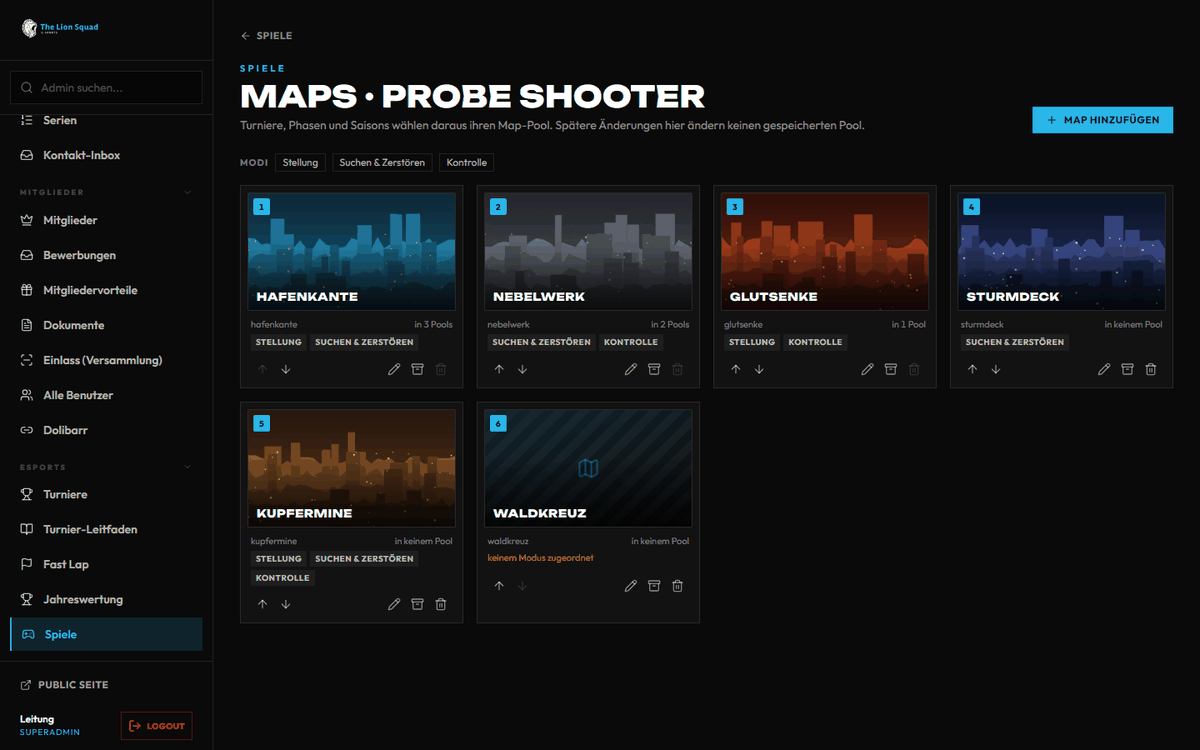
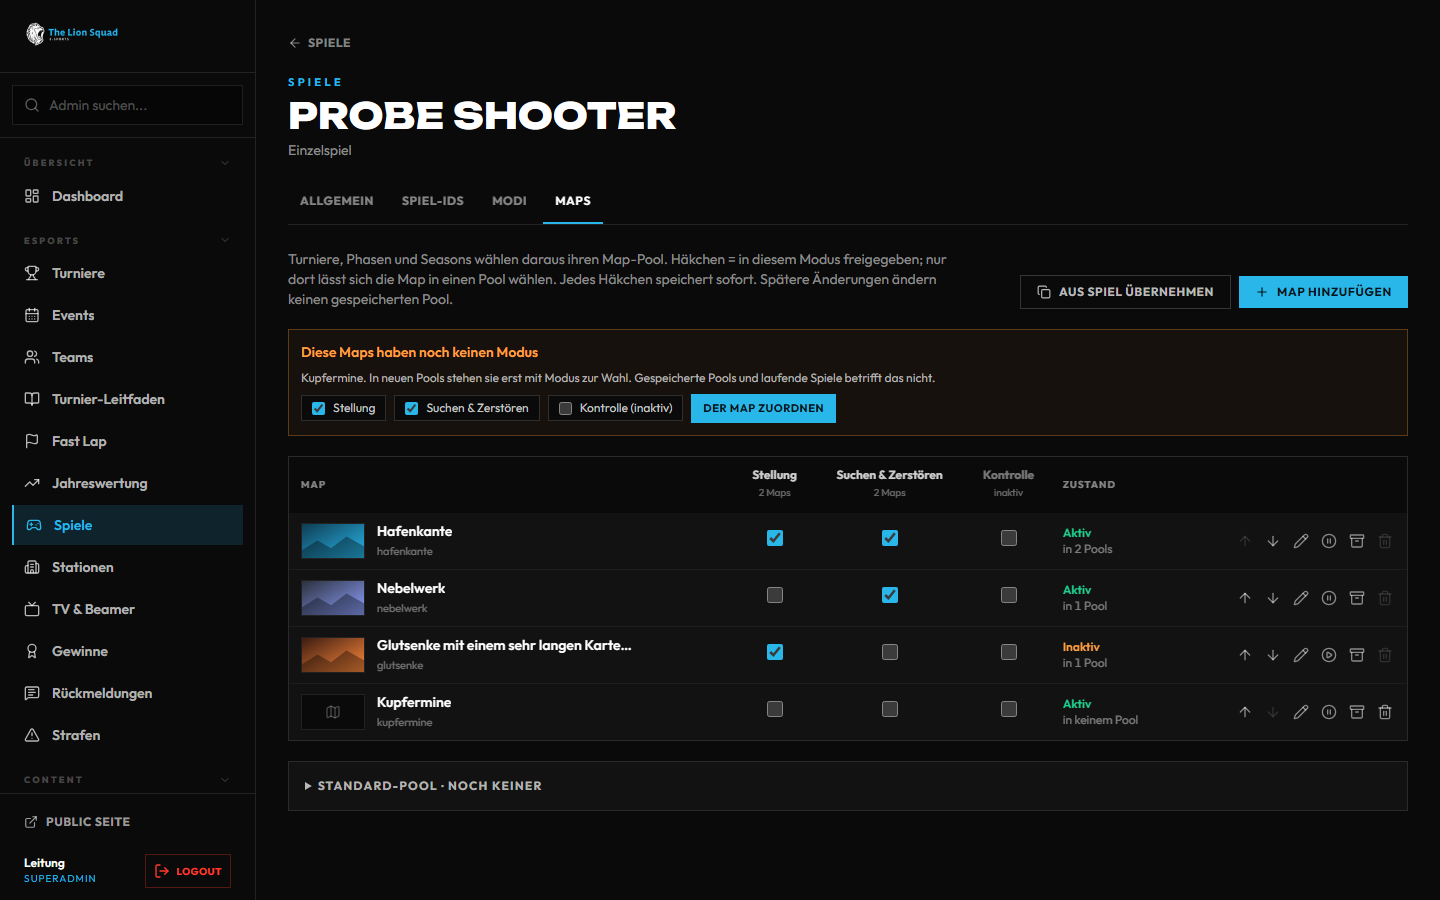
docs: Handbuch zur Spielseite mit neuen Bildern (#2249)
Turniere 3.12 (Spielseite, Reiter, Speichern je Reiter, neues Spiel, Modi als
Zeilen) und 3.14 (Maps als Tabelle Map × Modus), dazu die Wege in Liga,
Discord und Inhalte. Bilder mit erfundenen Daten.

diff --git a/docs/handbuch/turniere.md b/docs/handbuch/turniere.md
@@ -10,7 +10,9 @@ Der Weg eines Turniers aus Sicht der Turnierleitung: anlegen, Anmeldung, Check-i
 - **Admin → eSports → Turniere → Turnier öffnen** (`/admin/tournaments/<Turnier>`) – Reiter **Teilnehmer**,
   **Turnierbaum**, **Matchplan** (Zeitleiste je Station, siehe 3.8), **Spiele**, **Gruppen** (nur beim Format Gruppenphase), **Maps** (nur mit Spiel, siehe 3.14), **Team**, **Rückmeldungen** (erst nach
   dem Ende), **Bearbeiten**
-- **Admin → eSports → Spiele → Maps** (`/admin/games/<Spiel>/maps`) – Map-Bibliothek eines Spiels mit Bildern und Modi
+- **Admin → eSports → Spiele → Zahnrad** (`/admin/games/<Spiel>`) – die Spielseite mit den Reitern **Allgemein**,
+  **Spiel-IDs**, **Modi** (`#modi`) und **Maps** (`#maps`, Map-Bibliothek mit Bildern; die alte Adresse
+  `/admin/games/<Spiel>/maps` leitet dorthin weiter), siehe 3.12 und 3.14
 - **Admin → eSports → Liga** (`/admin/leagues`) – Liga, Season, Liga N und Staffeln (3.15); den ganzen Weg bis zum
   Saisonende erklärt [Liga leiten](liga.md)
 - **Admin → eSports → Turnier-Leitfaden** (`/admin/tournament-guide`) – welches Format wofür, mit „Voreinstellung übernehmen“
@@ -54,7 +56,7 @@ Turniere. **Ohne 2FA** erscheint stattdessen der Hinweis **2FA einrichten**, sie
 | **Ergebnisse** | Spieler melden, oder die Turnierleitung trägt im **Ergebnis-Fenster** ein, danach 10 Sekunden **Rückgängig** | Matchplan, Stationen, Turnierleitung am Handy |
 | **Dispute** | Streitfall entscheiden mit einem Tipp | Turnierleitung am Handy |
 | **Stationen** | Spiele Geräten zuweisen, Aufruf auf dem TV | Admin → eSports → Stationen |
-| **Maps** | Map-Bibliothek je Spiel mit Bild und Modi; je Turnier und Phase ein eigener Map-Pool | Spiele → Maps, Reiter Maps |
+| **Maps** | Map-Bibliothek je Spiel mit Bild und Modi; je Turnier und Phase ein eigener Map-Pool | Spielseite → Maps, im Turnier Reiter Maps |
 | **TV** | Turnierbaum, Aufrufe, Stationen auf Fernseher und Beamer | [TV und Beamer](tv.md) |
 | **Abschluss** | Beendet, Ergebnisse veröffentlicht, Punkte, Erfolge, Gewinne | Statusauswahl im Turnier |
 
@@ -706,20 +708,42 @@ weiter, auch die Liste für die App. **Archivierte zeigen** blendet es wieder ei
 **Löschen** geht nur, wenn nichts mehr daran hängt; sonst nennt der Dialog die Zählung (etwa „2 Turniere, 12 Maps“) und
 bietet das Archiv an.
 
-**Spiel-Daten pflegen:** **Admin → eSports → Spiele → Spiel bearbeiten**, Abschnitt **Für Turniere**. Alles ist
-freiwillig:
+**Die Spielseite:** **Admin → eSports → Spiele**, in der Zeile des Spiels das **Zahnrad** (oder der Name) öffnet
+`/admin/games/<Spiel>`. Alles zu einem Spiel steht dort in vier Reitern; jeder Reiter lässt sich auch direkt per Adresse
+öffnen (`#allgemein`, `#ids`, `#modi`, `#maps`):
+
+| Reiter | Was dort steht |
+| --- | --- |
+| **Allgemein** | Name, Kurzname, **Art** (Einzelspiel, Hauptspiel / Serie, Spielversion), **Adresse** (eine geänderte leitet alte Links weiter), bei einer Spielversion das **Hauptspiel**, Logo und Cover, **Discord-Server** und **Discord-Rolle** |
+| **Spiel-IDs** | Welche Spieler-ID die Anmeldung fragt: je Feld **Bezeichnung**, **Schlüssel**, **Hinweis für Spieler**, **Format**, **Beispiel**, **Auswahl** und die Haken **Pflichtfeld** und **Je Liga-Season nur einmal**. Bei einer Spielversion dazu **ID-Quelle** und „IDs vom Hauptspiel verwenden“ |
+| **Modi** | Die Modi mit Dauer und Ergebnisregel (unten), darunter die **Vorgaben für Turniere** |
+| **Maps** | Die Map-Bibliothek als Tabelle Map × Modus (siehe 3.14) |
+
+Jeder Reiter mit Formular hat unten seinen eigenen Knopf (**Allgemein speichern**, **Spiel-IDs speichern**, **Modi
+speichern**) und speichert nur seine Felder. Was noch nicht gespeichert ist, steht unten als „Nicht gespeichert“, der
+Reiter trägt einen gelben Punkt. Ein Reiterwechsel verliert nichts; **Verwerfen** holt den gespeicherten Stand zurück. Wer
+die Seite mit Ungespeichertem verlässt, wird gefragt. Am Handy liegen die Reiter in einer Leiste; passt sie nicht mehr in
+die Breite, lässt sie sich seitlich wischen.
+
+**Neues Spiel:** In der Spieleliste **Neues Spiel**, Name und Art eintragen (bei einer Spielversion das Hauptspiel),
+**Anlegen und öffnen** – danach öffnet die Spielseite.
+
+<img src="../assets/turniere/spielseite-handy.png" alt="Spielseite am Handy (Testdaten): Reiter Allgemein, Spiel-IDs, Modi und Maps, darunter Name, Kurzname, Art und Adresse, unten Allgemein speichern" width="300">
+
+**Spiel-Daten pflegen:** Reiter **Modi**. Alles ist freiwillig:
 
 | Feld | Wofür |
 | --- | --- |
-| **Modi und Dauer** | Name und Minuten je Modus, z. B. „Grand Prix 4 Rennen“ 12 Min. Der erste Modus ist die Vorgabe; im Turnier wählt **Spielmodus** einen anderen. **Minuten je Einzelspiel** heißt: die Minuten gelten pro Spiel, Best-of zählt mit. Die Minuten sind freiwillig: ein Modus nur für Maps (etwa „Stellung“ oder „Suchen & Zerstören“) bleibt ohne Dauer. Umbenennen behält die Zuordnung der Maps (siehe 3.14). |
+| **Modi und Dauer** | Je Modus eine Zeile mit Name, Zustand, Spieler je Seite, Ergebnisregel und Dauer; ein Klick klappt alle Felder auf, **Modus hinzufügen** legt eine neue, schon aufgeklappte Zeile an. **Minuten**, z. B. „Grand Prix 4 Rennen“ 12 Min. Der erste Modus ist die Vorgabe; im Turnier wählt **Spielmodus** einen anderen. **Minuten je Einzelspiel** heißt: die Minuten gelten pro Spiel, Best-of zählt mit. Die Minuten sind freiwillig: ein Modus nur für Maps (etwa „Stellung“ oder „Suchen & Zerstören“) bleibt ohne Dauer. Umbenennen behält die Zuordnung der Maps (siehe 3.14). |
 | **Spieler je Lauf vor Ort / online** | Wie viele gleichzeitig an einer Station bzw. in einer Lobby spielen. Füllt bei Mehrspieler-Bäumen die **Spielgröße** vor. |
 | **Best-of-Vorgabe** | Füllt **Best of** vor, wenn im Turnier das Spiel gewählt wird. |
 | **Aufbau- und Wechselzeit** | Minuten je Spiel an der Station; kommt zur Dauer aus dem Modus dazu (nicht zu einer Dauer am Turnier). |
 | **Geräte für Stationen** | Der Planer nimmt nur Stationen mit einem dieser Geräte (Switch, Switch 2, PC, PS5, Xbox …). Nichts gewählt: jede Station. Eine Station, die fest diesem Spiel zugeordnet ist, passt immer. |
 | **Punktetabelle** | Punkte je Platz, z. B. `15, 12, 10, 9, 8, 7, 6, 5, 4, 3, 2, 1` oder `4-3-2-1`. Wird gespeichert; die Wertung rechnet noch nicht damit. |
 
-**Je Modus mehr festhalten** (#2206): Unter jeder Modus-Zeile stehen **Zustand** und eine aufklappbare Zeile, die
-zusammenfasst, was eingetragen ist (etwa „4 je Seite · Runden gewinnen: 6 Siege · Verlängerung“). Ein Klick öffnet:
+**Je Modus mehr festhalten** (#2206): Die Zeile zeigt Name, **Zustand** (Aktiv, Inaktiv, Archiviert), Spieler je Seite,
+die Ergebnisregel in Kurzform (etwa „Runden gewinnen: 6 Siege · Verlängerung“) und die Dauer; am Handy steht das in zwei
+Zeilen. Ein Klick klappt die Zeile auf: Name, Zustand, Minuten und dazu:
 
 | Feld | Wofür |
 | --- | --- |
@@ -732,7 +756,7 @@ zusammenfasst, was eingetragen ist (etwa „4 je Seite · Runden gewinnen: 6 Sie
 Werte eines bestimmten Titels sind nicht eingebaut; ihr tragt sie je Spiel selbst ein. Passt etwas nicht (Ziel fehlt,
 Rundenlimit kleiner als das Ziel …), sagt es die Seite vor dem Speichern.
 
-<img src="../assets/turniere/spiel-modus-details.png" alt="Spiel bearbeiten, Für Turniere: zwei Modi, einer aufgeklappt mit Zustand, Beschreibung, Spieler je Seite, Format und Ergebnisregel; beim verwendeten Modus ein Schloss statt Papierkorb" width="560">
+<img src="../assets/turniere/spiel-modus-details.png" alt="Spielseite, Reiter Modi (Testdaten): drei Modi als Zeilen mit Zustand, Spielern, Ergebnisregel und Dauer, einer aufgeklappt mit Name, Zustand und Minuten; bei verwendeten Modi ein Schloss statt Papierkorb" width="560">
 
 **Best-of als Erwartungswert:** Ist die Dauer **je Einzelspiel** angegeben, plant der Planer die Mitte aus kürzestem und
 längstem Verlauf: Best of 1 = 1 Spiel, **Best of 3 = 2,5**, Best of 5 = 4, Best of 7 = 5,5 Spiele. Minuten = aufgerundet
@@ -785,30 +809,46 @@ Fällt am Event Netz oder Server aus, läuft das Turnier auf Papier weiter. Daru
 
 ### 3.14 Maps und Map-Pools
 
-**Map-Bibliothek je Spiel:** **Admin → eSports → Spiele**, in der Zeile des Spiels das Karten-Symbol (**Maps**). Jedes
-Spiel und jede Spielversion hat seine eigenen Maps – eine neue Version erbt keine, und gleiche Namen in zwei Spielen
-sind zwei verschiedene Maps. Eingebaut ist keine Map; ihr legt alle selbst an. **Aus Spiel übernehmen** holt Maps aus
-einer anderen Version: Spiel wählen, Maps anhaken (schon vorhandene sind gesperrt), übernehmen. Es entstehen eigene
-Maps dieses Spiels mit demselben Bild, die Modi nur soweit dieses Spiel sie kennt. **Map hinzufügen** öffnet das Blatt:
+**Map-Bibliothek je Spiel:** Spielseite (**Admin → eSports → Spiele → Zahnrad**), Reiter **Maps**. Die alte Adresse
+`/admin/games/<Spiel>/maps` leitet dorthin weiter. Jedes Spiel und jede Spielversion hat seine eigenen Maps – eine neue
+Version erbt keine, und gleiche Namen in zwei Spielen sind zwei verschiedene Maps. Eingebaut ist keine Map; ihr legt alle
+selbst an. **Aus Spiel übernehmen** holt Maps aus einer anderen Version: Spiel wählen, Maps anhaken (schon vorhandene
+sind gesperrt), übernehmen. Es entstehen eigene Maps dieses Spiels mit demselben Bild, die Modi nur soweit dieses Spiel
+sie kennt.
+
+Die Maps stehen als **Tabelle Map × Modus**: je Map eine Zeile mit Bild, Name und Slug, je Modus eine Spalte (darüber,
+wie viele Maps dort freigegeben sind), dann **Zustand** mit „in N Pools“ und die Aktionen. **Häkchen = in diesem Modus
+freigegeben**; nur dort lässt sich die Map in einen Pool wählen. Jedes Häkchen speichert sofort. Die Modi sind dieselben
+wie im Reiter Modi (siehe 3.12) – kein zweites Modussystem. Hat das Spiel keine Modi, gibt es keine Spalten, und jede Map
+gilt für jeden Pool; der Hinweis **Modi anlegen** führt in den Reiter Modi. Ein archivierter Modus hat nur eine Spalte,
+solange eine Map ihn noch hat, und lässt sich dort nur abwählen. Am Handy bleibt der Name links stehen, die Spalten
+wischt man seitlich.
+
+**Map hinzufügen** öffnet das Blatt:
 
 - **Name** und **Slug** (eindeutig im Spiel; bleibt beim Umbenennen gleich), **Bild** im Format 16 : 9 über
   **Hochladen** oder **Medien wählen** (nur eigene Uploads), **Notiz** und **Externe Kennung** (freiwillig).
 - **Weitere Schreibweisen**, mit Komma getrennt – etwa wie ein Veranstalter die Map nennt. Darüber ordnet das
   Ergebnisblatt einer Team-Liga einen getippten oder eingefügten Namen der Map zu (siehe [Inhalte, Serien](inhalte.md)).
-- **Modi:** dieselben Modi wie bei der Spieldauer (siehe 3.12) – kein zweites Modussystem. Eine Map kann in mehreren
-  Modi freigegeben sein und in anderen nicht; nur dort lässt sie sich in einen Pool wählen. Hat das Spiel keine Modi,
-  gilt die Map für jeden Pool.
-- Die Pfeile ändern die **Reihenfolge**, das Pause-Symbol **deaktiviert** (und aktiviert wieder), das Archiv-Symbol
-  **archiviert** (und holt zurück). *Inaktiv*: in keinen neuen Pool wählbar, wo sie schon steht, bleibt sie gültig und im
-  Pool-Editor mit „inaktiv“ markiert. Vor dem Deaktivieren und Archivieren nennt eine Rückfrage die Liga-Seasons, in deren Pool
-  die Map steht – nur als Hinweis. **Löschen** geht nur, solange die Map in keinem gespeicherten Pool und keinem Spiel stand –
-  sonst archivieren. Die Karte sagt, in wie vielen Pools sie steht.
+- **Freigegeben in:** die Modi für die neue Map. Danach ändert ihr sie in der Tabelle; das Blatt **Bearbeiten** (Stift)
+  hat keine Modi mehr.
+- In der Zeile ändern die Pfeile die **Reihenfolge**, das Pause-Symbol **deaktiviert** (und aktiviert wieder), das
+  Archiv-Symbol **archiviert** (und holt zurück). *Inaktiv*: in keinen neuen Pool wählbar, wo sie schon steht, bleibt sie
+  gültig und im Pool-Editor mit „inaktiv“ markiert. Vor dem Deaktivieren und Archivieren nennt eine Rückfrage die
+  Liga-Seasons, in deren Pool die Map steht – nur als Hinweis. **Löschen** geht nur, solange die Map in keinem
+  gespeicherten Pool und keinem Spiel stand – sonst archivieren.
 
-<img src="../assets/turniere/maps-bibliothek.png" alt="Map-Bibliothek eines Spiels: Karten mit Bild, Slug, Modi und wie viele Pools die Map nutzen" width="560">
+<table>
+<tr><th>Reiter Maps am PC (Testdaten)</th><th>Am Handy (Testdaten)</th></tr>
+<tr>
+<td><img src="../assets/turniere/maps-bibliothek.png" alt="Reiter Maps: Tabelle Map × Modus mit Bild, Häkchen je Modus, Zustand mit Pool-Zählung und Aktionen, darüber der Hinweis auf eine Map ohne Modus" width="560"></td>
+<td><img src="../assets/turniere/spielseite-maps-handy.png" alt="Reiter Maps am Handy: Name links fest, Modus-Spalten zum seitlichen Wischen mit Hinweis" width="260"></td>
+</tr>
+</table>
 
 **Modi ändern, ohne etwas zu sperren:**
 
-- **Modus entfernen** (Spiel bearbeiten → Für Turniere) geht nur bei einem **unbenutzten** Modus. Verwendet ist er, sobald
+- **Modus entfernen** (Spielseite → Modi) geht nur bei einem **unbenutzten** Modus. Verwendet ist er, sobald
   er in einem Map-Pool (auch einer alten Version), in **Modus je Map** einer Season oder Staffel, als **Spielmodus** eines
   Turniers oder einer Phase, in einem Spiel oder Ergebnisblatt steht. Dann steht statt des Papierkorbs ein Schloss mit
   dem Hinweis „Wird verwendet – entfernen geht nicht, nur deaktivieren oder archivieren“; stellt den **Zustand** auf
@@ -823,11 +863,11 @@ Maps dieses Spiels mit demselben Bild, die Modi nur soweit dieses Spiel sie kenn
   nimmt die Season sonst nicht an.
 - **Altbestand:** Ein Modus, der vor dieser Regel trotz Verwendung entfernt wurde, bleibt in gespeicherten Pools lesbar
   („Im gespeicherten Pool steht noch …“), gemeldet wird weiter aus dem gespeicherten Pool.
-- **Erster Modus:** Sobald ein Spiel Modi hat, steht eine Map ohne Modus in keinem neuen Pool zur Wahl. Die Map-Seite
+- **Erster Modus:** Sobald ein Spiel Modi hat, steht eine Map ohne Modus in keinem neuen Pool zur Wahl. Der Reiter Maps
   zeigt dann **Diese Maps haben noch keinen Modus**: Modi anhaken, **Allen … Maps zuordnen**, fertig. Auch der Pool-Editor
   weist darauf hin. Bestehende Pools ohne Modus gelten unverändert weiter.
 
-**Standard-Pool je Spiel:** Auf der Map-Seite unten unter **Standard-Pool** speichert ihr je Modus eine Auswahl. Sie ist
+**Standard-Pool je Spiel:** Im Reiter Maps unten unter **Standard-Pool** speichert ihr je Modus eine Auswahl. Sie ist
 nur eine Vorlage: **Vorgabe des Spiels** lädt sie in Turnier, Phase, Season und Saison, gespeichert wird dort wie immer
 ein eigener Stand. Gibt es keinen Standard-Pool, lädt der Knopf alle freigegebenen, aktiven Maps. Einen Standard-Pool zu
 ändern oder zu entfernen, ändert keinen gespeicherten Pool.

diff --git a/docs/handbuch/discord.md b/docs/handbuch/discord.md
@@ -8,7 +8,7 @@ Discord selbst einrichtet: Hauptserver, Unterserver, Kanäle, Rollen und die Rec
 - **Admin → Verbindungen → Discord** (`/admin/integrations/discord`) mit sechs Reitern:
   **Meldungen** · **Einbettungen & Termine** · **Gestaltung** · **Willkommen** · **Bot & Aktivität** · **Server**
 - **Admin → Verbindungen → Konten verknüpfen** – die Discord-Anmeldung für Mitglieder
-- **Admin → Spiele → Spiel bearbeiten → Discord-Server** – welcher Server zu welchem Spiel gehört
+- **Admin → Spiele → Zahnrad → Allgemein → Discord-Server** – welcher Server zu welchem Spiel gehört
 
 Technische Details für die Entwicklung: [docs/DISCORD.md](../DISCORD.md).
 
@@ -125,7 +125,7 @@ selbst oder mit Discords eigenem „Onboarding“.
 Team-Kader eines Spiels steht, bekommt dessen Rolle, etwa „CoD-Spieler“ – auf dem Server des Spiels
 und am Hauptserver.
 
-- Der Name steht im Spielformular (Admin → Spiele → „Discord-Rolle“); leer heißt „<Kurzname>-Spieler“.
+- Der Name steht im Spielformular (Admin → Spiele → Zahnrad → Allgemein → „Discord-Rolle“); leer heißt „<Kurzname>-Spieler“.
   Editionen zählen für ihr Hauptspiel – es gibt eine Rolle je Hauptspiel.
 - Vergeben wird nur, was es im Discord gibt: Legt die Rolle mit genau diesem Namen an, oder hakt beim
   Server **„Fehlende Rollen anlegen“** an (Reiter „Server“, Vorgabe aus). Dann legt der Bot fehlende
@@ -299,7 +299,7 @@ Server mit eigener Kanal-Liste:
   Spiel – sie stehen nur am Hauptserver.
 - Der **Erfolg der Woche** gilt für den ganzen Verein und bleibt am Hauptserver.
 - Ist dem Server noch kein Spiel zugeordnet, postet der Bot nichts und sagt es: „Diesem Server ist noch
-  kein Spiel zugeordnet“ (Spiele → Spiel bearbeiten → Discord-Server).
+  kein Spiel zugeordnet“ (Spiele → Spiel → Allgemein → Discord-Server).
 - Der Hauptserver zeigt weiter alles.
 
 ### 4.4 Stream-Meldungen je Stream
@@ -473,7 +473,7 @@ Ein Bot kann auf beliebig vielen Servern sein – **ein zweiter Bot ist nie nöt
    - **Notiz** – wofür der Server ist.
 3. **„Prüfen“:** Bot da? Welche Rechte fehlen – in Worten mit Klickweg.
 4. **„Test“:** schreibt in den Systemkanal des Servers – öffentlich, darum mit Rückfrage.
-5. **Spiele zuordnen:** **Admin → Spiele → Spiel bearbeiten → „Discord-Server“.** Leer heißt
+5. **Spiele zuordnen:** **Admin → Spiele → Zahnrad → Allgemein → „Discord-Server“.** Leer heißt
    *erben*: eine Spielversion nimmt den Server ihres Hauptspiels, ohne alles gilt der Hauptserver.
    Der Reiter „Server“ zeigt je Server, welche Spiele dort sind.
 
@@ -581,7 +581,7 @@ schicken – immer an dasselbe Ziel. Klappt es wieder nicht, steht der Grund in 
 | Kanal in der Auswahl ausgegraut | Bot darf dort nicht schreiben | Kanal → Bearbeiten → Berechtigungen → Rolle des Bots: Kanal ansehen, Nachrichten senden, Links einbetten |
 | Privater Kanal fehlt in der Auswahl | Bot sieht den Kanal nicht | Rolle des Bots dem Kanal hinzufügen (2.4) |
 | Turnier-Meldungen stehen einzeln im Kanal statt im Thread | Thread-Rechte fehlen | „Öffentliche Threads erstellen“ und „Nachrichten in Threads senden“ |
-| Einbettung am Spielserver: „Diesem Server ist noch kein Spiel zugeordnet“ | kein Spiel zeigt auf diesen Server | Spiele → Spiel bearbeiten → „Discord-Server“ |
+| Einbettung am Spielserver: „Diesem Server ist noch kein Spiel zugeordnet“ | kein Spiel zeigt auf diesen Server | Spiele → Zahnrad → Allgemein → „Discord-Server“ |
 | Kein Termin am Spielserver | Recht „Events verwalten“ fehlt dort, oder der Server ist aus | Reiter „Server“ → „Prüfen“; Haken „an“ |
 | Rollen werden nicht vergeben | Bot-Rolle steht unter den Rollen / Rollenname weicht ab / Person nicht verknüpft / Unterserver aus | Bot-Rolle nach oben ziehen; Namen im Reiter „Bot & Aktivität“ angleichen; Person verknüpft ihr Konto; Reiter „Server“: Haken „an“ und der Stand unter „Rollen“ |
 | Spiel-Rolle fehlt | keine Rolle mit dem Namen im Discord / Person hat Spiel-Rollen ausgeschaltet | Rolle anlegen oder „Fehlende Rollen anlegen“; Name unter Admin → Spiele |

diff --git a/docs/handbuch/liga.md b/docs/handbuch/liga.md
@@ -7,8 +7,8 @@ steckt, steht in [LIGA.md](../LIGA.md). Für die Captains der Co-Teams gibt es e
 
 **Wo im Admin:**
 
-- **Admin → eSports → Spiele → Spiel bearbeiten** – die **Modi** des Spiels (etwa Stellung, Suchen & Zerstören)
-- **Admin → eSports → Spiele → Maps** (Karten-Symbol in der Zeile des Spiels) – Map-Bibliothek mit Bildern und Modi
+- **Admin → eSports → Spiele → Zahnrad** (`/admin/games/<Spiel>`) – die Spielseite: Reiter **Modi** (etwa Stellung, Suchen & Zerstören)
+  und Reiter **Maps** (`#maps`) – Map-Bibliothek als Tabelle Map × Modus mit Bildern
 - **Admin → eSports → Liga** (`/admin/leagues`) – Liga, Season, Liga 1, 2 …, Staffel A, B …
 - **Turnierverwaltung der Staffel** (`/admin/tournaments/<Staffel>`, aus der Season über **Turnierverwaltung · Co-Teams
   zuteilen**) – Co-Teams zuteilen, starten, Spiele, Ergebnisse
@@ -79,13 +79,13 @@ Ausblenden des Menüpunkts stellt die Redaktion unter **Admin → Content → Na
 
 ### 2.1 Modi und Maps in der Bibliothek
 
-1. **Admin → eSports → Spiele → Spiel bearbeiten**, Abschnitt **Für Turniere → Modi und Dauer**: je Modus eine Zeile,
+1. **Admin → eSports → Spiele → Zahnrad**, Reiter **Modi**, **Modus hinzufügen**: je Modus eine Zeile,
    etwa **Stellung**, **Suchen & Zerstören**, **Kontrolle**. Minuten braucht ein Modus nur für Maps nicht. Aufgeklappt
    trägt jeder Modus auf Wunsch **Beschreibung**, **Spieler je Seite**, **Format** und eine **Ergebnisregel** (Punkte bis
    zum Ziel, Runden gewinnen oder höherer Endstand; Ziel, Rundenlimit, Zeitlimit, Remis, Verlängerung) – die Werte laut
    Regelwerk tragt ihr selbst ein. Details: [Turniere, 3.12](turniere.md#312-spieldauer-und-spiel-daten).
-2. **Admin → eSports → Spiele → Maps** → **Map hinzufügen**: Name, **Bild** im Format 16 : 9 (nur eigene Uploads),
-   und die **Modi**, in denen die Map gespielt wird. Mit **Aus Spiel übernehmen** kommen Maps einer anderen Spielversion
+2. Reiter **Maps** → **Map hinzufügen**: Name, **Bild** im Format 16 : 9 (nur eigene Uploads),
+   und die **Modi**, in denen die Map gespielt wird; später setzt ein Häkchen in der Tabelle sie frei. Mit **Aus Spiel übernehmen** kommen Maps einer anderen Spielversion
    samt Bild dazu; gibt es schon Maps ohne Modus, ordnet **Allen … Maps zuordnen** sie gesammelt zu. Details:
    [Turniere, 3.14](turniere.md#314-maps-und-map-pools).
 
@@ -608,7 +608,7 @@ Alles sind Vorgaben, jede Season stellt sie selbst ein (2.2). Geprüft wird an e
 | **Stichtag** | Optional in der Kaderübersicht: Neue warten auf eure Freigabe, Abgänge bleiben frei (3.7) |
 | **Transferfenster** | Die Teamleitung beantragt im Fenster, ihr entscheidet. Nach der Genehmigung wartet die Person ab der Kaderaufnahme die volle Wartezeit, immer und auch wenn sie das alte Co-Team schon verlassen hatte |
 | **Mindestalter** | Prüfung über das Geburtsdatum im Profil als Selbstauskunft. Ohne Datum keine Anmeldung und keine Aufnahme. Ihr seht nur „Alter erfüllt“, „Geburtsdatum fehlt“ oder „Altersvorgabe nicht erfüllt“, die Liga nennt nie ein Datum oder Alter |
-| **Spiel-ID** | Format und Auswahl stehen am Spiel unter **Admin → Spiele → Spieler-IDs**: Format als regulärer Ausdruck, Beispiel für die Spieler, Auswahlwerte. So wird auch die **Plattform** zum Pflichtfeld, das einmal je Season festgehalten wird. Eine schon festgehaltene ID bleibt gültig. Eine doppelte ID wird abgelehnt, die Meldung nennt nie, wem sie gehört |
+| **Spiel-ID** | Format und Auswahl stehen am Spiel unter **Admin → Spiele → Zahnrad → Spiel-IDs**: Format als regulärer Ausdruck, Beispiel für die Spieler, Auswahlwerte. So wird auch die **Plattform** zum Pflichtfeld, das einmal je Season festgehalten wird. Eine schon festgehaltene ID bleibt gültig. Eine doppelte ID wird abgelehnt, die Meldung nennt nie, wem sie gehört |
 
 **Wartezeit aufheben:** Season → **Kader und Spiel-IDs** → beim Spieler **Wartezeit aufheben** → Grund (mindestens fünf Zeichen). Das geht mit der Zuständigkeit **Kader prüfen** und steht im Protokoll.
 

diff --git a/docs/handbuch/inhalte.md b/docs/handbuch/inhalte.md
@@ -966,7 +966,7 @@ der Kader im Abschnitt **Kader** der Saison.
 
 **Map-Pool der Saison:** Hat die Spur ein **Spiel** (bei einer Team-Liga steht der Abschnitt auch ohne, mit Hinweis),
 wählt der Vorstand auf der Seite der Saison im Abschnitt **Map-Pool der Saison** die Maps der Saison – je Modus aus der
-Map-Bibliothek des Spiels (**Admin → eSports → Spiele → Maps**, siehe [Turniere 3.14](turniere.md#314-maps-und-map-pools)).
+Map-Bibliothek des Spiels (**Admin → eSports → Spiele → Zahnrad → Maps**, siehe [Turniere 3.14](turniere.md#314-maps-und-map-pools)).
 Anhaken, mit den Pfeilen sortieren, **Vorgabe des Spiels** lädt den Standard-Pool des Spiels (ohne ihn alle freigegebenen
 Maps), **Übernehmen von … Pool der Saison 2025** startet mit dem Pool einer anderen Saison der Spur. **Speichern** legt eine neue Version an: Spätere
 Änderungen an der Bibliothek (Name, Bild, archiviert) ändern den gespeicherten Pool und alte Ergebnisse nicht. Die
